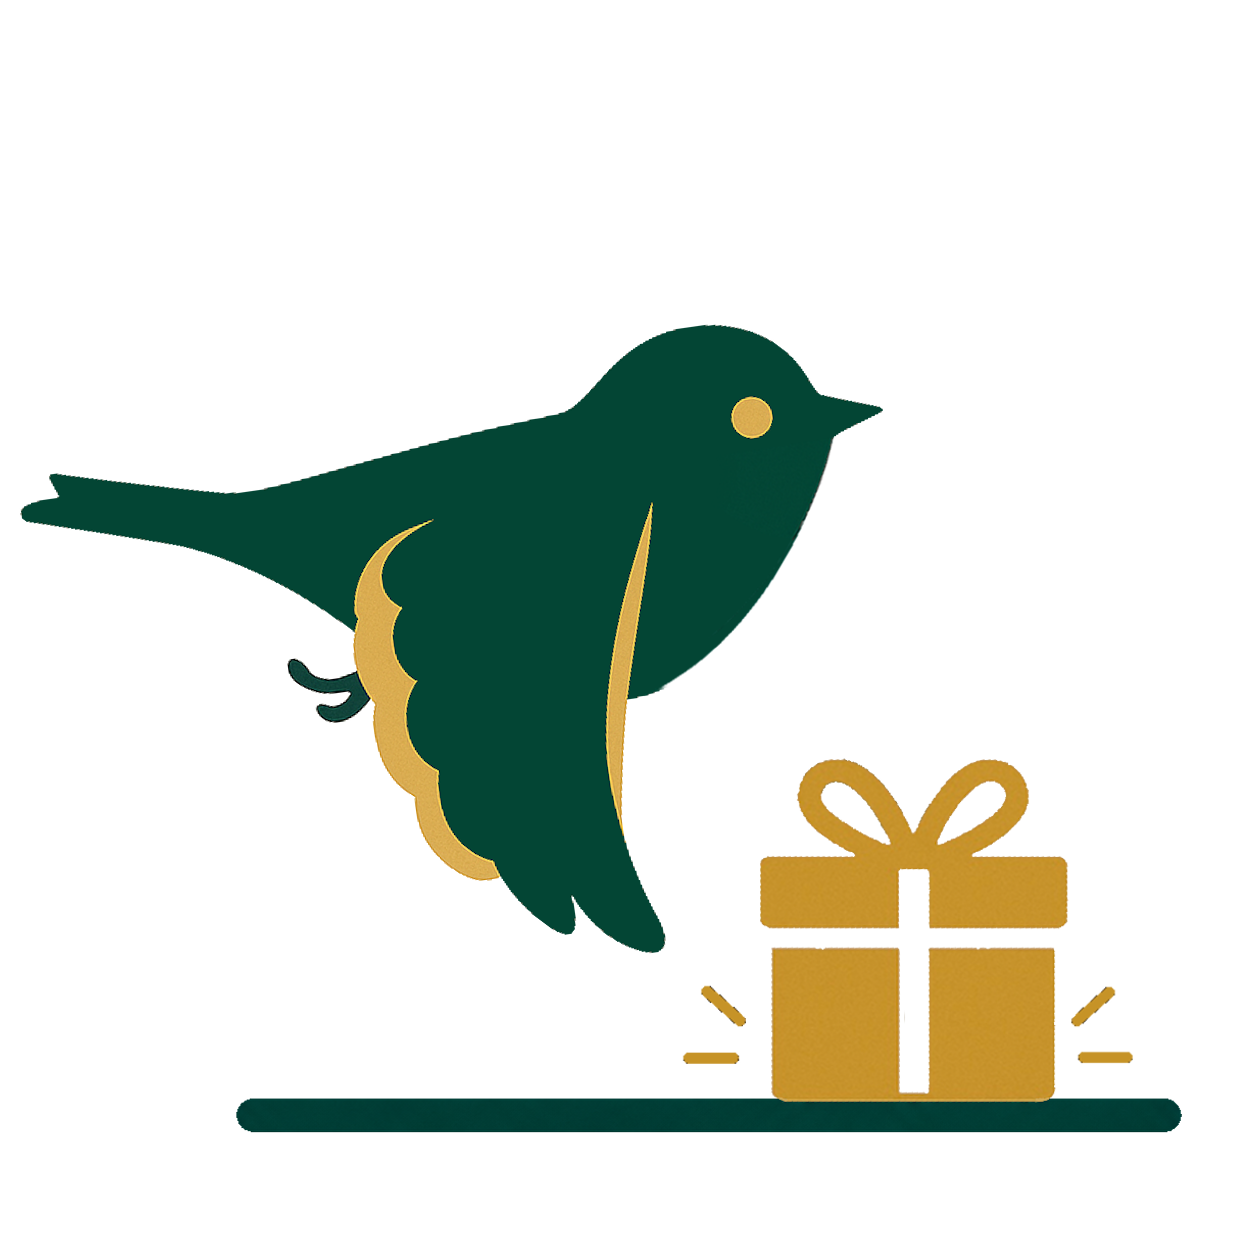
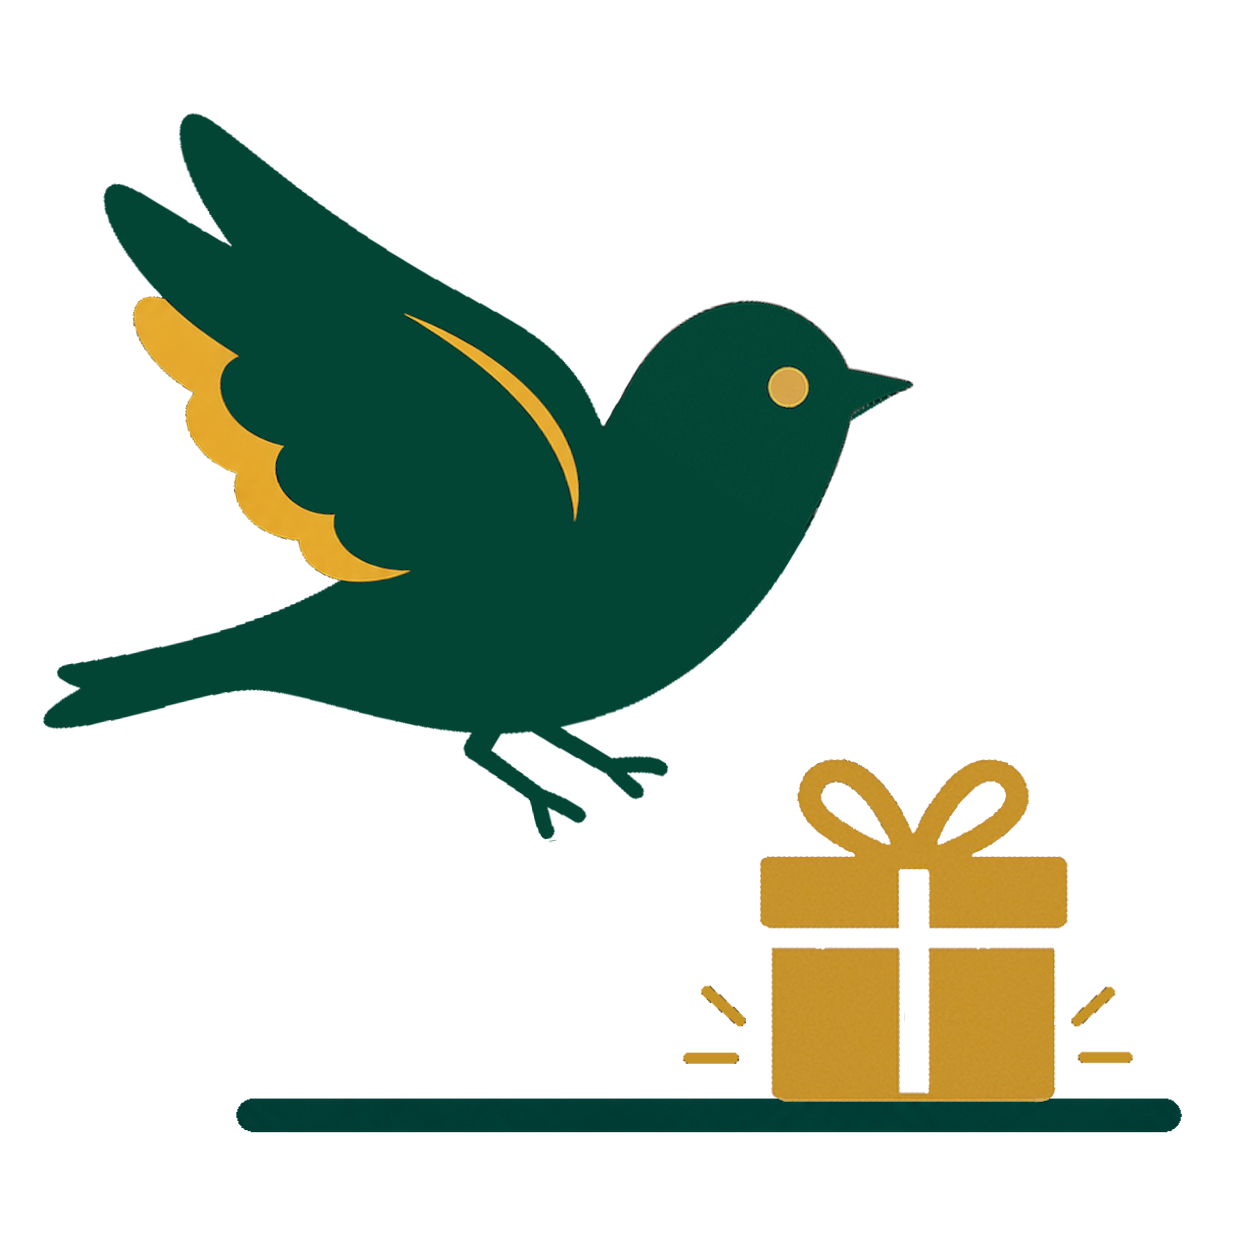
Adjusted animation page border

diff --git a/src/app/animation/ForestBorder.tsx b/src/app/animation/ForestBorder.tsx
@@ -2,74 +2,77 @@ export default function ForestBorder() {
   const TREE_COUNT = 25;
   const TREE_WIDTH = 48;
   const VIEWBOX_WIDTH = 1200;
+  const VIEWBOX_HEIGHT = 220; // ↑ more headroom
   const CENTER_INDEX = (TREE_COUNT - 1) / 2;
-  const GROUND_Y = 132;
+
+  const GROUND_Y = 170; // ↓ push everything down
 
   return (
     <div className="w-full pointer-events-none select-none">
       <svg
-        viewBox={`0 0 ${VIEWBOX_WIDTH} 160`}
+        viewBox={`0 0 ${VIEWBOX_WIDTH} ${VIEWBOX_HEIGHT}`}
         preserveAspectRatio="none"
-        className="h-[125px] w-full"
+        className="h-[140px] w-full"
         aria-hidden="true"
       >
         <g>
           {Array.from({ length: TREE_COUNT }).map((_, i) => {
             const x = i * TREE_WIDTH;
             const cx = x + TREE_WIDTH / 2;
+
             const isAlt = i % 2 === 0;
             const color = isAlt ? "#0F3D3E" : "#145C54";
 
-            // 0 at center, 1 at edges
             const distanceFromCenter =
               Math.abs(i - CENTER_INDEX) / CENTER_INDEX;
 
-            // Explicit height increase toward edges
-            const heightBoost = distanceFromCenter * 42;
+            // 🔥 Stronger curve (this is what you want visually)
+            const curved = Math.pow(distanceFromCenter, 1.6);
 
-            // Small designed variation so it does not look perfectly mechanical
-            const variation = i % 3 === 0 ? 5 : i % 3 === 1 ? -3 : 2;
+            const heightBoost = curved * 90; // ↑ MUCH stronger
 
-            const topY = 30 - heightBoost + variation;
-            const middleY = 56 - heightBoost * 0.68 + variation;
-            const bottomY = 82 - heightBoost * 0.38 + variation;
+            const variation = i % 3 === 0 ? 6 : i % 3 === 1 ? -4 : 2;
+
+            const topY = 60 - heightBoost + variation;
+            const middleY = 95 - heightBoost * 0.7 + variation;
+            const bottomY = 120 - heightBoost * 0.4 + variation;
 
             return (
               <g key={i}>
-                {/* Top tier */}
+                {/* Top */}
                 <polygon
                   points={`
                     ${cx},${topY}
-                    ${cx - 16},${topY + 48}
-                    ${cx - 7},${topY + 44}
-                    ${cx},${topY + 60}
-                    ${cx + 7},${topY + 44}
-                    ${cx + 16},${topY + 48}
+                    ${cx - 16},${topY + 50}
+                    ${cx - 6},${topY + 46}
+                    ${cx},${topY + 64}
+                    ${cx + 6},${topY + 46}
+                    ${cx + 16},${topY + 50}
                   `}
                   fill={color}
                 />
 
-                {/* Middle tier */}
+                {/* Middle */}
                 <polygon
                   points={`
                     ${cx},${middleY}
-                    ${cx - 24},${middleY + 56}
-                    ${cx - 11},${middleY + 50}
-                    ${cx},${middleY + 68}
-                    ${cx + 11},${middleY + 50}
-                    ${cx + 24},${middleY + 56}
+                    ${cx - 24},${middleY + 60}
+                    ${cx - 10},${middleY + 52}
+                    ${cx},${middleY + 72}
+                    ${cx + 10},${middleY + 52}
+                    ${cx + 24},${middleY + 60}
                   `}
                   fill={color}
                 />
 
-                {/* Bottom tier */}
+                {/* Bottom */}
                 <polygon
                   points={`
                     ${cx},${bottomY}
                     ${cx - 32},${GROUND_Y}
-                    ${cx - 14},${GROUND_Y - 8}
-                    ${cx},${GROUND_Y + 12}
-                    ${cx + 14},${GROUND_Y - 8}
+                    ${cx - 14},${GROUND_Y - 10}
+                    ${cx},${GROUND_Y + 14}
+                    ${cx + 14},${GROUND_Y - 10}
                     ${cx + 32},${GROUND_Y}
                   `}
                   fill={color}
@@ -79,7 +82,14 @@ export default function ForestBorder() {
           })}
         </g>
 
-        <rect x="0" y={GROUND_Y} width={VIEWBOX_WIDTH} height="28" fill="#0F3D3E" />
+        {/* Ground */}
+        <rect
+          x="0"
+          y={GROUND_Y}
+          width={VIEWBOX_WIDTH}
+          height="30"
+          fill="#0F3D3E"
+        />
       </svg>
     </div>
   );